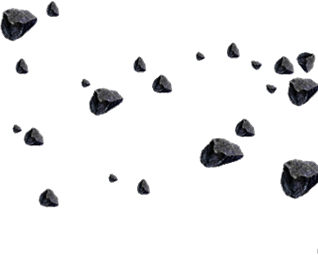
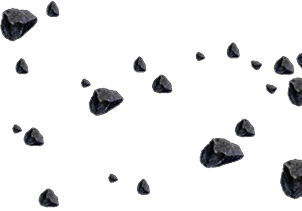
fix layout scrollbar horizontal

diff --git a/styles/component-11.css b/styles/component-11.css
@@ -1,6 +1,6 @@
 .section-salima {
   display: grid;
-  grid-template-columns: 39rem 38.568rem 38.568rem 38.455rem 38.455rem;
+  grid-template-columns: 37.9rem 37.9rem 37.9rem 37.9rem 37.9rem;
   justify-content: center;
 }
 

diff --git a/styles/component-12.css b/styles/component-12.css
@@ -81,6 +81,6 @@
 
 .commet-bg {
   position: absolute;
-  right: -0.7%;
-  bottom: 6.8%;
+  right: 0;
+  bottom: 13.2%;
 }
